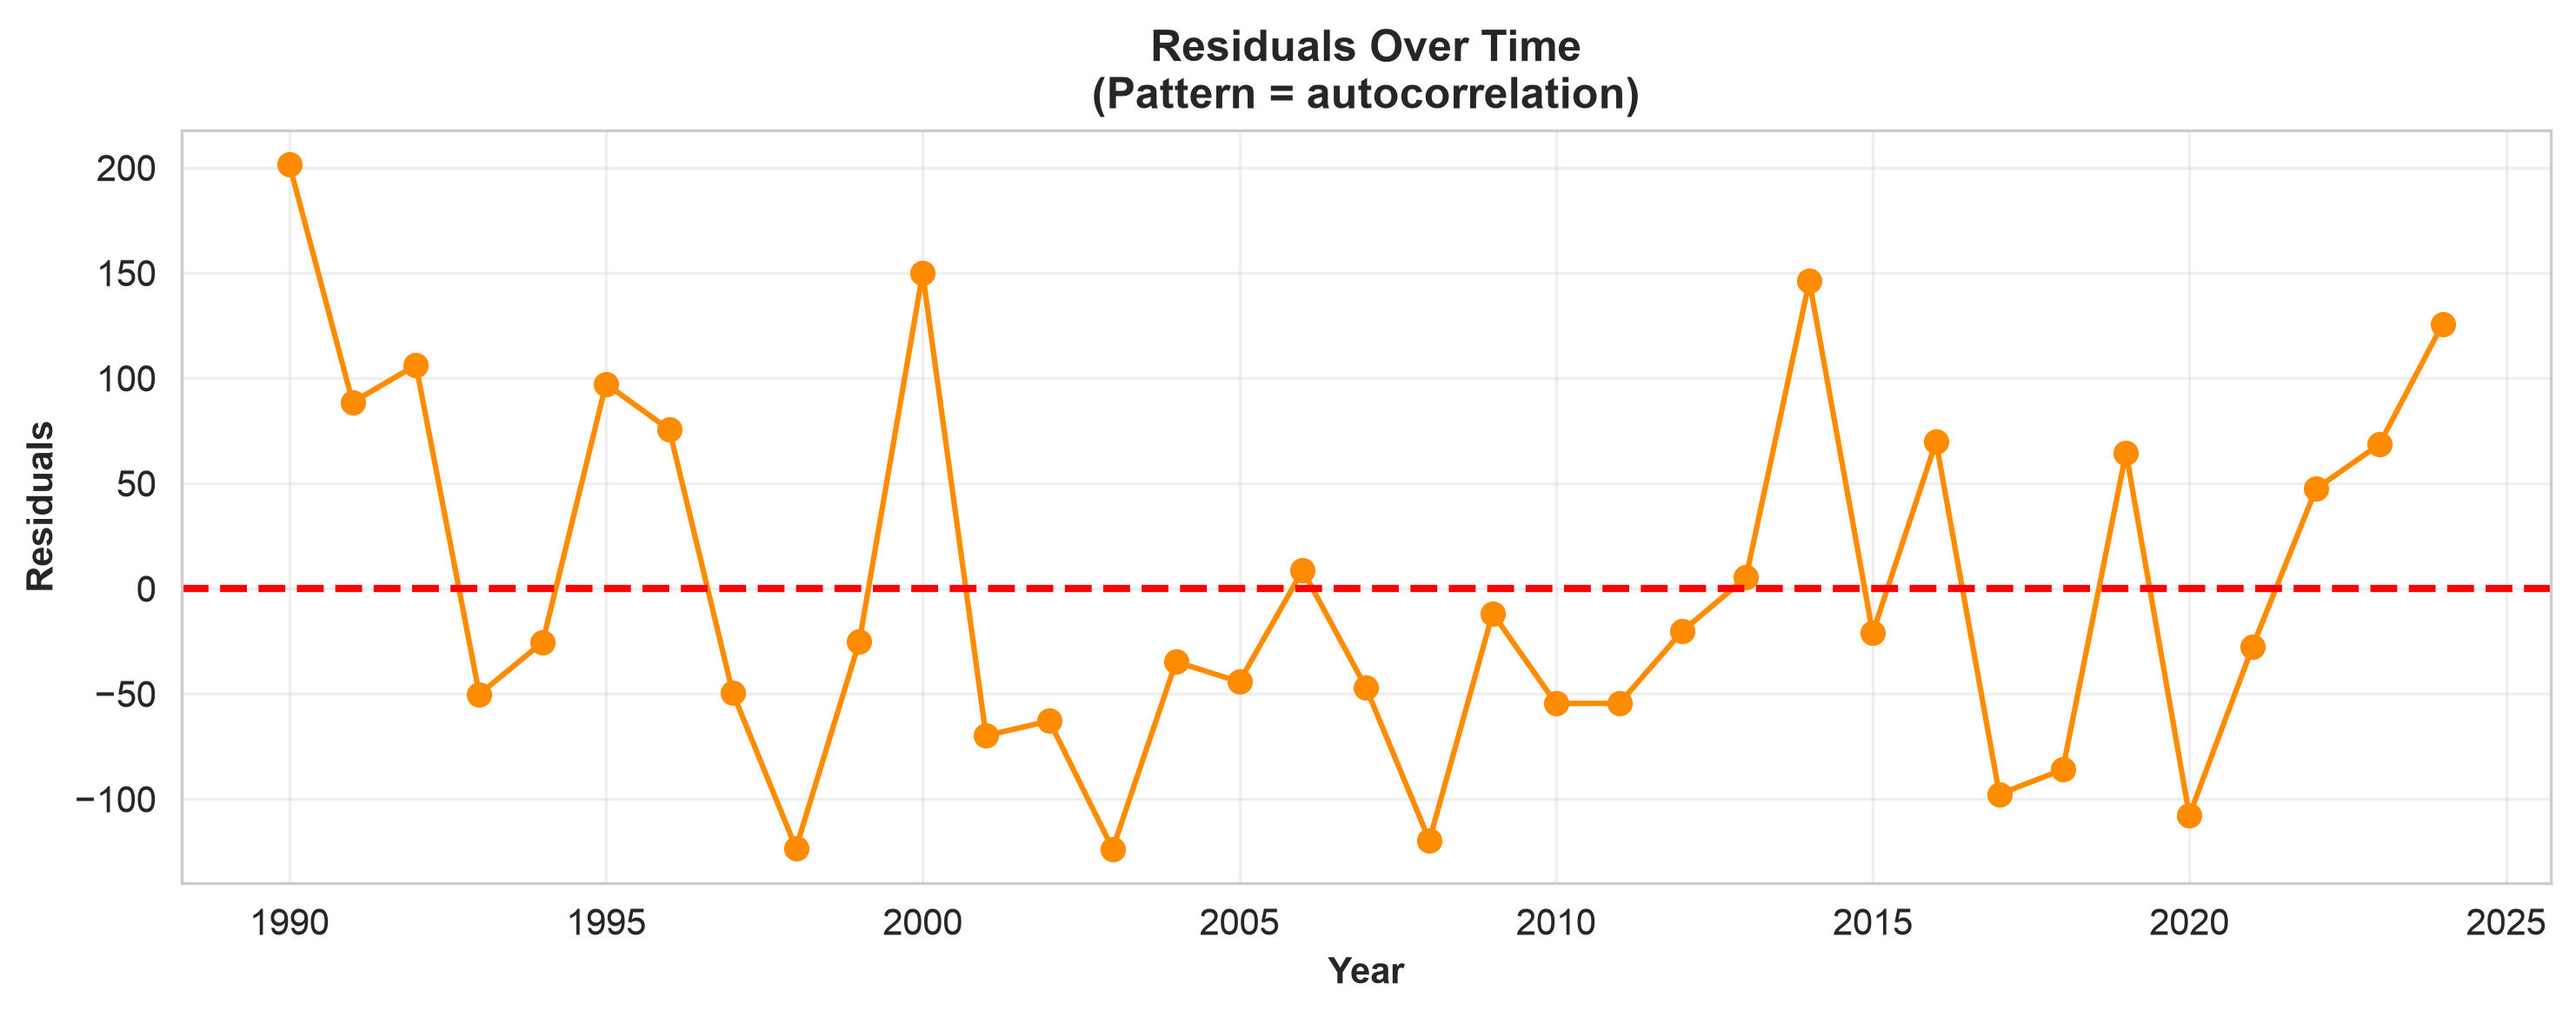
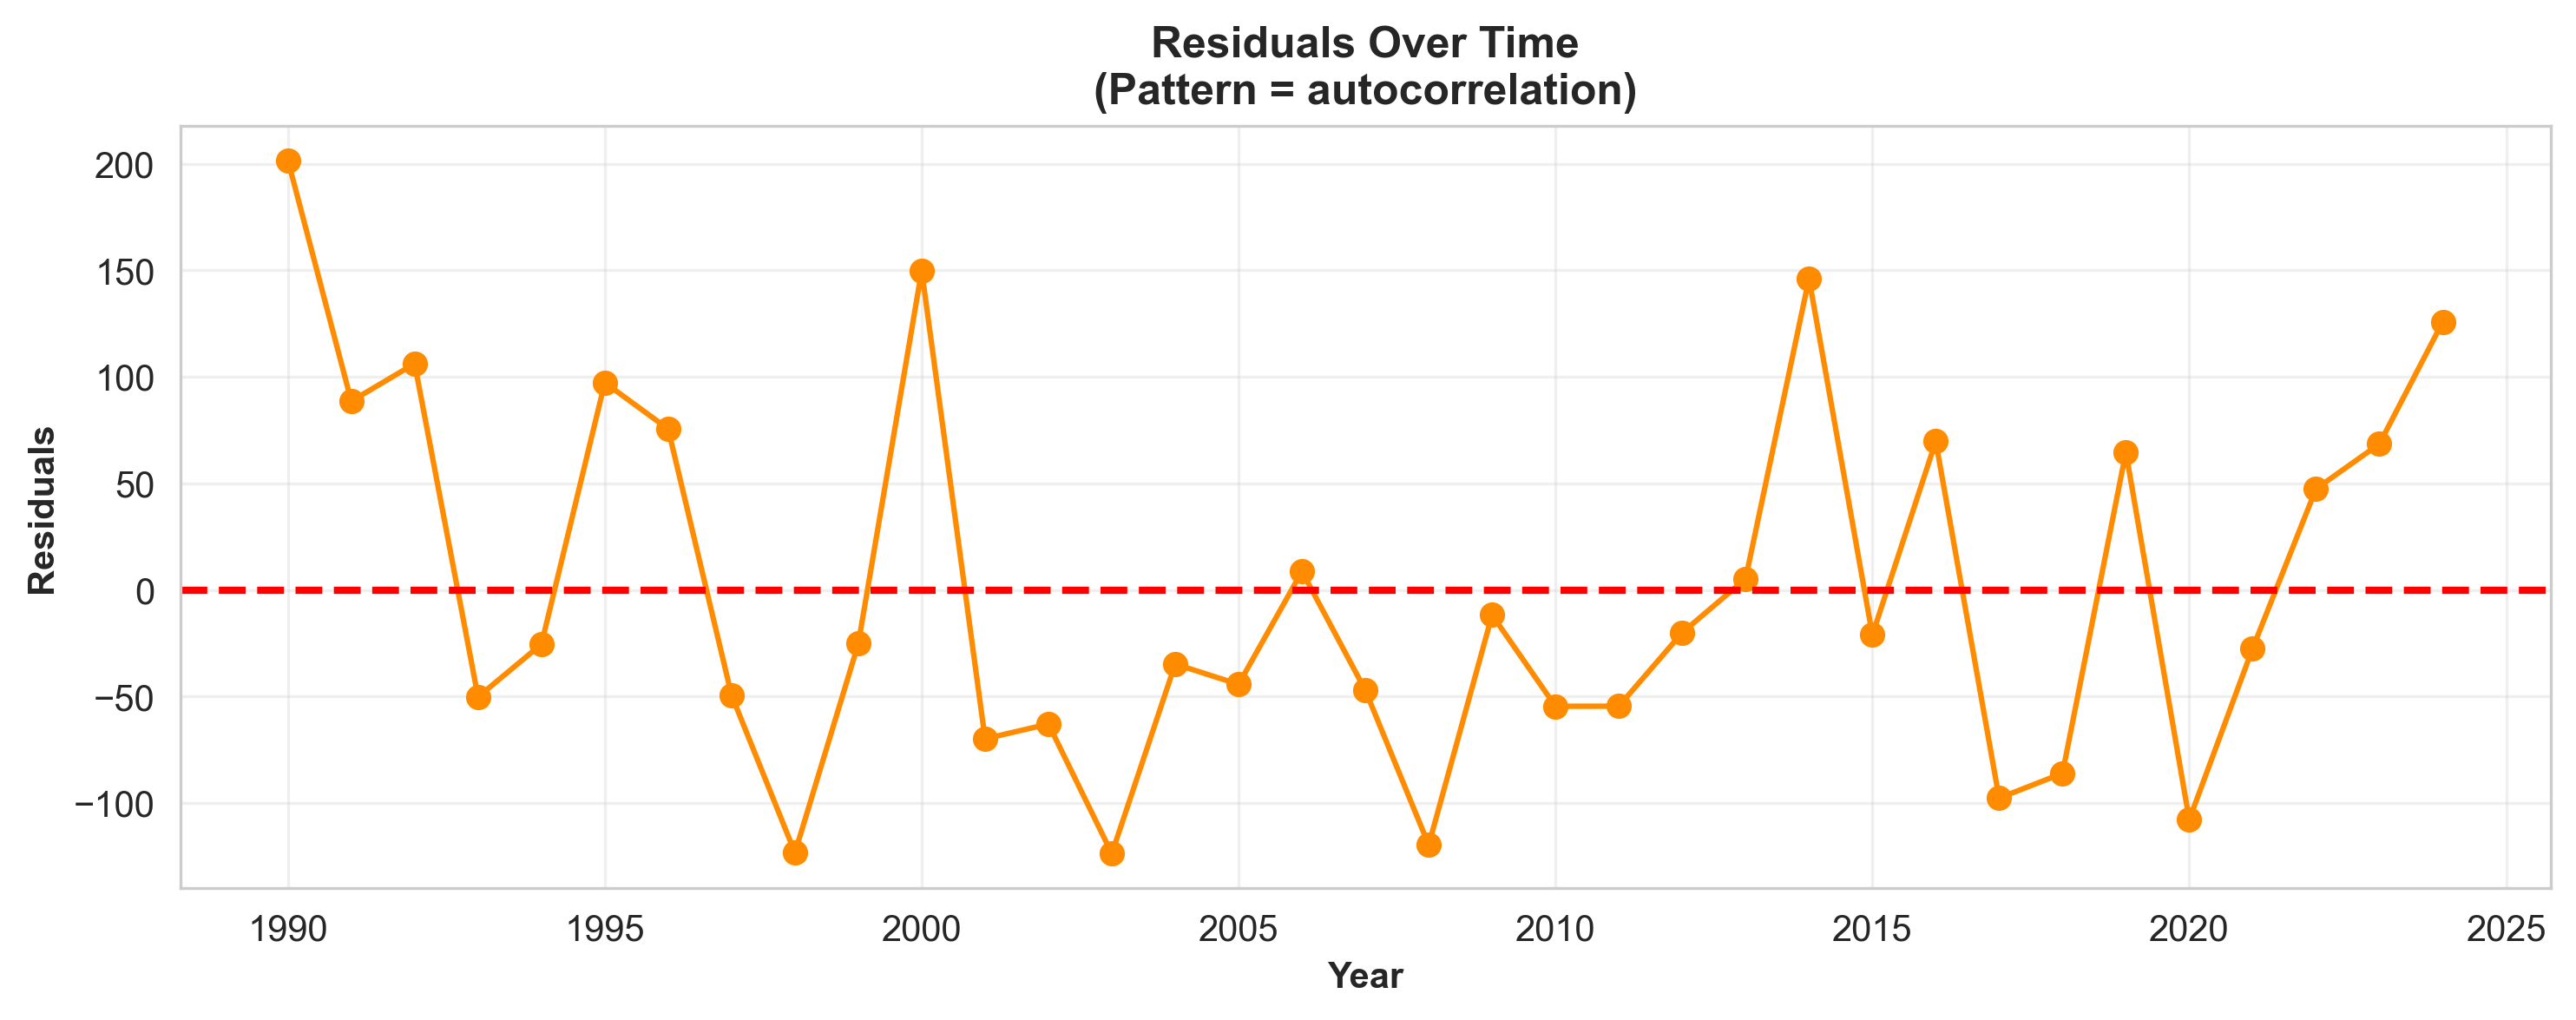
"folder rearranging"

diff --git a/research/paper/paper.md b/research/paper/paper.md
@@ -1,0 +1,67 @@
+# Climate, Persistence, and the Decline of Kenyan Coffee Yield: A Statistical Analysis, 1990–2024
+
+**Doreen Molly Wanjiru**
+Bowdoin College
+Summer 2026
+
+---
+
+## Abstract
+
+*[To be written last, once the full paper is complete.]*
+
+---
+
+## 1. Introduction
+
+Coffee is one of Kenya's most storied exports — prized globally for its bright acidity and complex flavor, and, closer to home, woven into the livelihoods of more than 700,000 smallholder farming households across the country's central and eastern highlands. For many of these farmers, coffee is not simply a crop but a generational inheritance: land, trees, and knowledge passed down through families who have depended on the harvest for income, education, and stability. My own family's ties to smallholder coffee farming in Kenya are what first drew me to this research — not as an abstract dataset, but as a question with real stakes for people I know.
+
+Over the past several decades, however, Kenyan coffee has been in visible decline. National yield fell by roughly 23% between 1990 and 2024, and coffee's share of Kenya's export earnings has fallen even more dramatically — from a high of roughly 40% in the mid-1980s to a small fraction of that today [figure to be verified]. Climate change is often cited as a primary culprit, and it is a reasonable first guess: coffee is a notoriously climate-sensitive crop, and East Africa has experienced measurable warming in recent decades.
+
+But the data tell a more complicated story than "climate change is destroying Kenyan coffee." Over the same 35-year period examined in this study, precipitation and humidity in Kenya's coffee-growing regions actually *increased* significantly — the opposite of the "hotter and drier" narrative that often accompanies discussions of climate change and African agriculture. If wetter conditions were the whole story, coffee yield should have improved, not collapsed. This divergence is the starting puzzle of this research: **if climate alone does not explain Kenya's declining coffee yield, what does — and how much of the decline can be attributed to climate at all?**
+
+This paper addresses that question in two parts. First, using 35 years (1990–2024) of merged climate and agricultural data across Kenya's major coffee-growing regions, I build and test a series of statistical models to isolate the specific climate variables — temperature, precipitation, humidity, and solar radiation — that have a measurable relationship with coffee yield, and to quantify how much of the yield decline they can explain. Second, informed by the portion of the decline that climate cannot explain, I situate these findings within the broader economic and historical context of Kenya's coffee sector, including the 1989 collapse of the International Coffee Agreement and the market liberalization that followed — a structural shift with its own, distinctly human, fingerprints on the data.
+
+The result is not a simple story of climate destroying an industry, nor a dismissal of climate's role. It is a more precise one: temperature and sunlight — not rainfall — are the climate variables that matter most for Kenyan coffee yield, and even accounting for them, roughly half of the year-to-year variation in yield remains unexplained by weather alone. That unexplained half is where the more interesting, more human part of this story begins.
+
+---
+
+## 2. Background
+
+*[To be drafted next.]*
+
+---
+
+## 3. Data & Methods
+
+*[To be drafted next.]*
+
+---
+
+## 4. Results
+
+*[Drafted separately — to be inserted.]*
+
+---
+
+## 5. Discussion
+
+*[To be drafted next.]*
+
+---
+
+## 6. Limitations
+
+*[Drafted separately — to be inserted.]*
+
+---
+
+## 7. Conclusion
+
+*[Drafted separately — to be inserted and lightly updated.]*
+
+---
+
+## References
+
+*[To be compiled as sources are finalized.]*